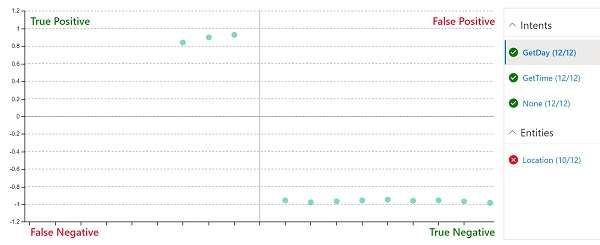
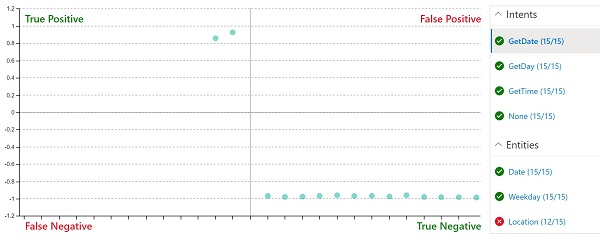
Added readme files

Changed region(s): [[0.0, 0.029, 0.99, 0.9876], [0.84, 0.5228, 0.99, 0.668], [0.81, 0.6971, 0.93, 0.7261]]

diff --git a/instructions/09-language-understanding-app.md b/instructions/09-language-understanding-app.md
@@ -55,11 +55,14 @@ Now that you have created an authoring resource, you can use it to create a Lang
     - **Culture**: English (*if this option is not available, leave it blank*)
     - **Description**: Natural language clock
     - **Prediction resource**: *Your Language Understanding prediction resource*
-4. If a panel with tips for creating an effective Language Understanding app is displayed, close it.
+
+    If your **Clock** app isn't opened automatically, open it.
+    
+    If a panel with tips for creating an effective Language Understanding app is displayed, close it.
 
 ## Create intents
 
-The first thing well do in the new app is to define some intents.
+The first thing we'll do in the new app is to define some intents.
 
 1. On the **Intents** page, select **&#65291; Create** to create a new intent named **GetTime**.
 2. In the **GetTime** intent, add the following utterances as example user input:
@@ -74,8 +77,14 @@ The first thing well do in the new app is to define some intents.
 
     *what day is it?*
 
-4. After you've added these utterances, go back to the **Intents** page and select the **None** intent. This is provided as a fallback for input that doesn't map to any of the intents you have defined in your language model.
-5. Add the following utterances to the **None** intent:
+4. After you've added these utterances, go back to the **Intents** page and add another new intent named **GetDate** with the following utterances:
+
+    *what is the date today?*
+
+    *what date is it?*
+
+5. After you've added these utterances, go back to the **Intents** page and select the **None** intent. This is provided as a fallback for input that doesn't map to any of the intents you have defined in your language model.
+6. Add the following utterances to the **None** intent:
 
     *hello*
 
@@ -83,7 +92,7 @@ The first thing well do in the new app is to define some intents.
 
 ## Train and test the app
 
-Now that you've added some intents, let's train the app model and see if it can correctly predict them from user input.
+Now that you've added some intents, let's train the app and see if it can correctly predict them from user input.
 
 1. At the top right of the portal, select **Train** to train the app.
 2. When the app is trained, select **Test** to display the Test panel, and then enter the following test utterance:
@@ -112,9 +121,13 @@ Now that you've added some intents, let's train the app model and see if it can 
 
 6. Close the Test panel.
 
-## Add an entity
+## Add entities
 
 So far you've defined some simple utterances that map to intents. Most real applications include more complex utterances from which specific data entities must be extracted to get more context for the intent.
+
+### Add a *machine learned* entity
+
+The most common kind of entity is a *machine learned* entity, in which the app learns to identify entity values based on examples.
 
 1. On the **Entities** page, select **&#65291; Create** to create a new entity.
 2. In the **Create an entity** dialog box, create a **Machine learned** entity named **Location**.
@@ -130,14 +143,80 @@ So far you've defined some simple utterances that map to intents. Most real appl
 
 7. When the utterance has been added, select the words ***new york***, and map them to the **Location** entity.
 
-8. At the top right of the portal, select **Train** to retrain the app.
-9. When the app is trained, select **Test** to display the Test panel, and then enter the following test utterance:
+### Add a *list* entity
+
+In some cases, valid values for an entity can be restricted to a list of specific terms and synonyms; which can help the app identify instances of the entity in utterances.
+
+1. On the **Entities** page, select **&#65291; Create** to create a new entity.
+2. In the **Create an entity** dialog box, create a **List** entity named **Weekday**.
+3. Add the following **Normalized values** and **synonyms**:
+
+    | Normalized values | synonyms|
+    |-------------------|---------|
+    | Sunday | Sun |
+    | Monday | Mon |
+    | Tuesday | Tue |
+    | Wednesday | Wed |
+    | Thursday | Thu |
+    | Friday | Fri |
+    | Saturday | Sat |
+
+3. After the **Weekday** entity has been created, return to the **Intents** page and select the **GetDate** intent.
+4. Enter the following new example utterance:
+
+    *what date was it on Saturday?*
+
+5. When the utterance has been added, verify that **saturday** has been automatically mapped to the **Weekday** entity. If not, select the word ***saturday***, and in the drop-down list that appears, select **Weekday**.
+6. Add another example utterance:
+
+    *what date will it be on Friday?*
+
+7. When the utterance has been added, ensure **friday** is mapped to the **Weekday** entity.
+
+### Add a *Regex* entity
+
+Sometimes, entities have a specific format, such as a serial number, form code, or date. You can define a regular expression (*regex) that describe an expected format to help your app identify matching entity values.
+
+1. On the **Entities** page, select **&#65291; Create** to create a new entity.
+2. In the **Create an entity** dialog box, create a **Regex** entity named **Date** with the following regex:
+
+    ```regex
+    [0-9]{2}/[0-9]{2}/[0-9]{4}
+    ```
+
+    > **Note**: This is a simple regex that checks for two digits followed by a back slash, another two digits, another backslash, and four digits - for example *01/11/2020*. It allows for invalid dates, such as *56/00/9999*; but it's important to remember that the entity regex is used to identify data entry that is *intended* as a date - not to validate date values.
+
+3. After the **Date** entity has been created, return to the **Intents** page and select the **GetDay** intent.
+4. Enter the following new example utterance:
+
+    *what day was 01/01/1901?*
+
+5. When the utterance has been added, verify that **01/01/1901** has been automatically mapped to the **Date** entity. If not, select ***01/01/1901***, and in the drop-down list that appears, select **Date**.
+6. Add another example utterance:
+
+    *what day will it be on 12/12/2099?*
+
+7. When the utterance has been added, ensure **12/12/2099** is mapped to the **Date** entity.
+
+### Retrain the app
+
+Now that you've modified ths language model, you need to retrain and retest the app.
+
+1. At the top right of the portal, select **Train** to retrain the app.
+2. When the app is trained, select **Test** to display the Test panel, and then enter the following test utterance:
 
     *what's the time in Edinburgh?*
 
-10. Review the result that is returned, which should hopefully predict the **GetTime** intent. Then select **Inspect** and in the additional inspection panel that is displayed, examine the **ML entities** section. The model should have predicted that "edinburgh" is an instance of a **Location** entity.
+3. Review the result that is returned, which should hopefully predict the **GetTime** intent. Then select **Inspect** and in the additional inspection panel that is displayed, examine the **ML entities** section. The model should have predicted that "edinburgh" is an instance of a **Location** entity.
+4. Try testing the following utterances:
 
-3. Close the inspection panel.
+    *what date is it on Friday?*
+
+    *what's the date on Thu?*
+
+    *what was the day on 01/01/2020?*
+
+5. When you have finished testing, close the inspection panel, but leave the test panel open.
 
 ## Perform batch testing
 
@@ -153,7 +232,7 @@ You can use the test pane to test individual utterances interactively, but for m
 
     > **Note**: Each utterance is scored as *positive* or *negative* for each intent - so for example "what time is it?" should be scored as *positive* for the **GetTime** intent, and *negative* for the **GetDate** intent. The points on the confusion matrix show which utterances were predicted correctly (*true*) and incorrectly (*false*) as *positive* and *negative* for the selected intent.
 
-6. With the **GetDate** intent selected, select any of the points on the confusion matrix to see the details of the prediction - including the utterance and the confidence score for the prediction. Then select the **GetTime** and **None** intents and view their prediction results. The app should have done well at predicting the intents correctly.
+6. With the **GetDate** intent selected, select any of the points on the confusion matrix to see the details of the prediction - including the utterance and the confidence score for the prediction. Then select the **GetDay**, **GetTime** and **None** intents and view their prediction results. The app should have done well at predicting the intents correctly.
 7. Select the **Location** entity and view the prediction results in the confusion matrix. In particular, note the predictions that were *false negatives* - these were cases where the app failed to detect the specified location in the utterance, indicating that you may need to add more sample utterances to the intents and retrain the model.
 8. Close the Batch testing panel.
 
@@ -174,24 +253,31 @@ In a real project, you'd iteratively refine intents and entities, retrain, and r
     GetIntent "What's the time?"
     ```
 
-9. Review the JSON response returned by your app, which should indicate the top scoring intent predicted for your input.
+9. Review the JSON response returned by your app, which should indicate the top scoring intent predicted for your input (which should be **GetTime**).
 10. Try the following command:
+
+    ```bash
+    GetIntent "What's today's date?"
+    ```
+
+11. Examine the response and verify that it predicts the **GetDate** intent.
+12. Try the following command:
 
     ```bash
     GetIntent "What time is it in Sydney?"
     ```
 
-11. Examine the response and verify that it includes a **Location** entity.
+13. Examine the response and verify that it includes a **Location** entity.
 
-12. Try this command:
+14. Try this command:
 
     ```bash
     GetIntent "What's the time in Nairobi?"
     ```
 
-13. Again, examine the response. This time the **Location** entity may not have been detected.
+15. Again, examine the response. This time the **Location** entity may not have been detected.
 
-14. Try a few more variations - the goal is to generate some responses that correctly predict the **GetTime** intent, but fail to detect a **Location** entity.
+16. Try a few more variations - the goal is to generate some responses that correctly predict the **GetTime** intent, but fail to detect a **Location** entity.
 
     Keep the terminal open. You will return to it later.
 
@@ -201,9 +287,9 @@ You can improve a Language Understanding app based on historical utterances subm
 
 In the previous procedure, you used cURL to submit requests to your app's endpoint. These requests included the option to log the queries, which enables the app to track them for use in active learning.
 
-1. In the Language Understanding portal, Select **Build** and view the **Review endpoint utterances** page. This page lists logged utterances that the service has flagged for review because of low confidence scores (or similar confidence scores for multiple intents or entities).
-2. Find an example of an utterance in which the **GetTime** intent and a **Location** entity are correctly predicted, but which does <u>not</u> exist in the example utterances you defined for the intent (the examples you were instructed to use were *what time is it in London?* and *what is the current time in New York?*); and select **&#10003;** to add the utterance to the intent.
-3. Find an example of an utterance in which the **GetTime** intent was correctly identified, but a **Location** entity was <u>not</u> identified; and select **&#10003;** to add the utterance to the intent.
+1. In the Language Understanding portal, Select **Build** and view the **Review endpoint utterances** page. This page lists logged utterances that the service has flagged for review.
+2. For any utterances for which the intent and entity (if any) are correctly predicted, select **&#10003;** to add the utterance to the intent as a training example.
+3. Find an example of an utterance in which the **GetTime** intent was correctly identified, but a **Location** entity was <u>not</u> identified; and select **&#10003;** to add the utterance to the intent - you will edit the intent to map the **Location** entity correctly before retraining.
 4. Go to the **Intents** page and open the **GetTime** intent. Then find the utterance with the undetected **Location** entity that you added in the previous step, select the location in the utterance, and map it to the **Location** entity.
 5. At the top of the Language Understanding portal, select **Train** to retrain the app.
 6. At the top right of the Language Understanding portal, select **Publish** and republish the app to the **Production slot**.
@@ -212,12 +298,12 @@ In the previous procedure, you used cURL to submit requests to your app's endpoi
 
 ## Export the app
 
-You can use the Language Understanding portal to develop and test your language app, but in a software development process for DevOps, you should maintain a source controlled definition of the app that can be included in continuous integration and delivery (CI/CD) pipelines. While you *could* use code scripts to create and train the app, a simpler way is to use the portal to create the app, and export it as a *.lu* file that can be imported and retrained in another Language Understanding instance. This approach enables you to make use of the productivity benefits of the portal while maintaining portability and reproducibility for the app.
+You can use the Language Understanding portal to develop and test your language app, but in a software development process for DevOps, you should maintain a source controlled definition of the app that can be included in continuous integration and delivery (CI/CD) pipelines. While you *can* use the Language Understanding SDK or REST API in code scripts to create and train the app, a simpler way is to use the portal to create the app, and export it as a *.lu* file that can be imported and retrained in another Language Understanding instance. This approach enables you to make use of the productivity benefits of the portal while maintaining portability and reproducibility for the app.
 
 1. In the Language Understanding portal, select **Manage**.
 2. On the **Versions** page, select the current version of the app (there should only be one).
 3. In the **Export** drop-down list, select **Export as LU**. Then, when prompted by your browser, save the file in the **09-luis-app** folder.
-4. In Visual Studio Code, open the **.lu** file you just exported and downloaded (if you are prompted to search the marketplace for an extension that can read it, dismiss the prompt). Note that the LU format is human-readable, making it an effective way to document the definition of your app in a team development environment.
+4. In Visual Studio Code, open the **.lu** file you just exported and downloaded (if you are prompted to search the marketplace for an extension that can read it, dismiss the prompt). Note that the LU format is human-readable, making it an effective way to document the definition of your Language Understanding app in a team development environment.
 
 ## More information
 

diff --git a/instructions/10-language-understanding-client.md b/instructions/10-language-understanding-client.md
@@ -17,7 +17,7 @@ To use the Language Understanding service, you need two kinds of resource:
 - An *authoring* resource: used to define, train, and test the language understanding app. This must be a **Language Understanding - Authoring** resource in your Azure subscription.
 - A *prediction* resource: used to publish your language understanding app and handle requests from client applications that use it. This can be either a **Language Understanding** or **Cognitive Services** resource in your Azure subscription.
 
-If you don't already have Language Understanding authoring and prediction resources in your Azure subscription:
+> **Note**: If you already have Language Understanding authoring and prediction resources in your Azure subscription, you can use them in this exercise. Otherwise, follow these instructions to create them.
 
 1. Open the Azure portal at [https://portal.azure.com](https://portal.azure.com), and sign in using the Microsoft account associated with your Azure subscription.
 2. Select the **&#65291;Create a resource** button, search for *language understanding*, and create a **Language Understanding** resource with the following settings:
@@ -38,6 +38,8 @@ If you don't already have Language Understanding authoring and prediction resour
 
 In this exercise, you'll use an app that contains a language model for clock-related intents. For example, the user input *what is the time?* predicts an intent named **GetTime**.
 
+> **Note**: If you already have a clock app from a previous exercise, you can use it in this exercise. Otherwise, follow these instructions to create it.
+
 1. In a new browser tab, open the Language Understanding portal for the location where you created your authoring resource:
     - US: [https://www.luis.ai](https://www.luis.ai)
     - Europe: [https://eu.luis.ai](https://eu.luis.ai)
@@ -45,9 +47,6 @@ In this exercise, you'll use an app that contains a language model for clock-rel
  2. Sign in using the Microsoft account associated with your Azure subscription. If this is the first time you have signed into the Language Understanding portal, you may need to grant the app some permissions to access your account details. Then complete the *Welcome* steps by selecting your Azure subscription and the authoring resource you just created.
 3. Open the **Conversation Apps** page, next to **&#65291;New app**, view the drop-down list and select **Import As LU**.
 Browse to the **10-luis-client** subfolder in the project folder containing the lab files for this exercise, and select **clock&period;lu**. Then specify a unique name for the clock app.
-
-    > **Note**: If you already have a clock app from a previous exercise, create the new app with a different name and use it in this exercise.
-
 4. If a panel with tips for creating an effective Language Understanding app is displayed, close it.
 5. At the top of the Language Understanding portal, select **Train** to retrain the app.
 6. At the top right of the Language Understanding portal, select **Publish** and republish the app to the **Production slot**.

diff --git a/instructions/0x-bot-composer.md b/instructions/0x-bot-composer.md
@@ -1,0 +1,4 @@
+# Create a Bot with the Bot Framework Composer
+
+# Create a basic bot
+
